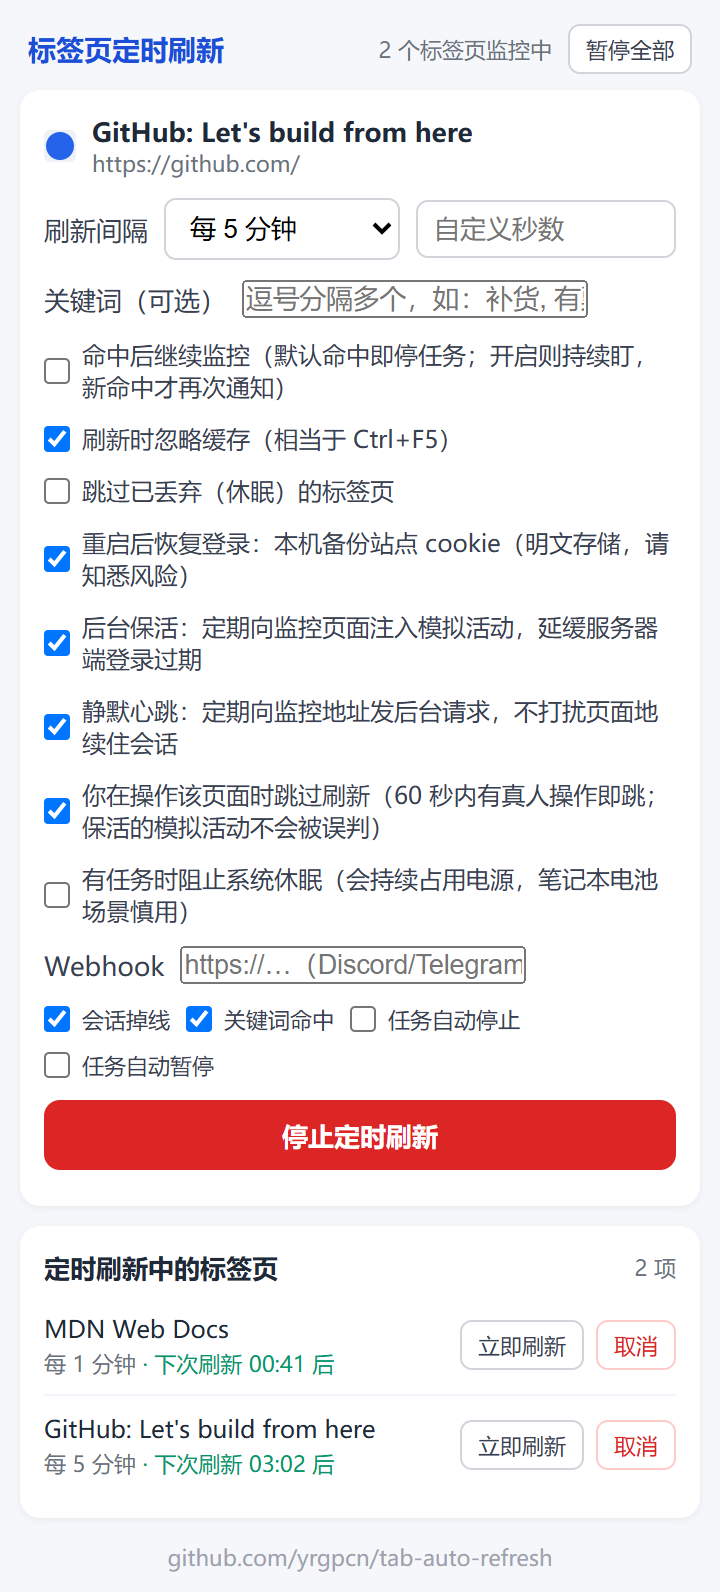
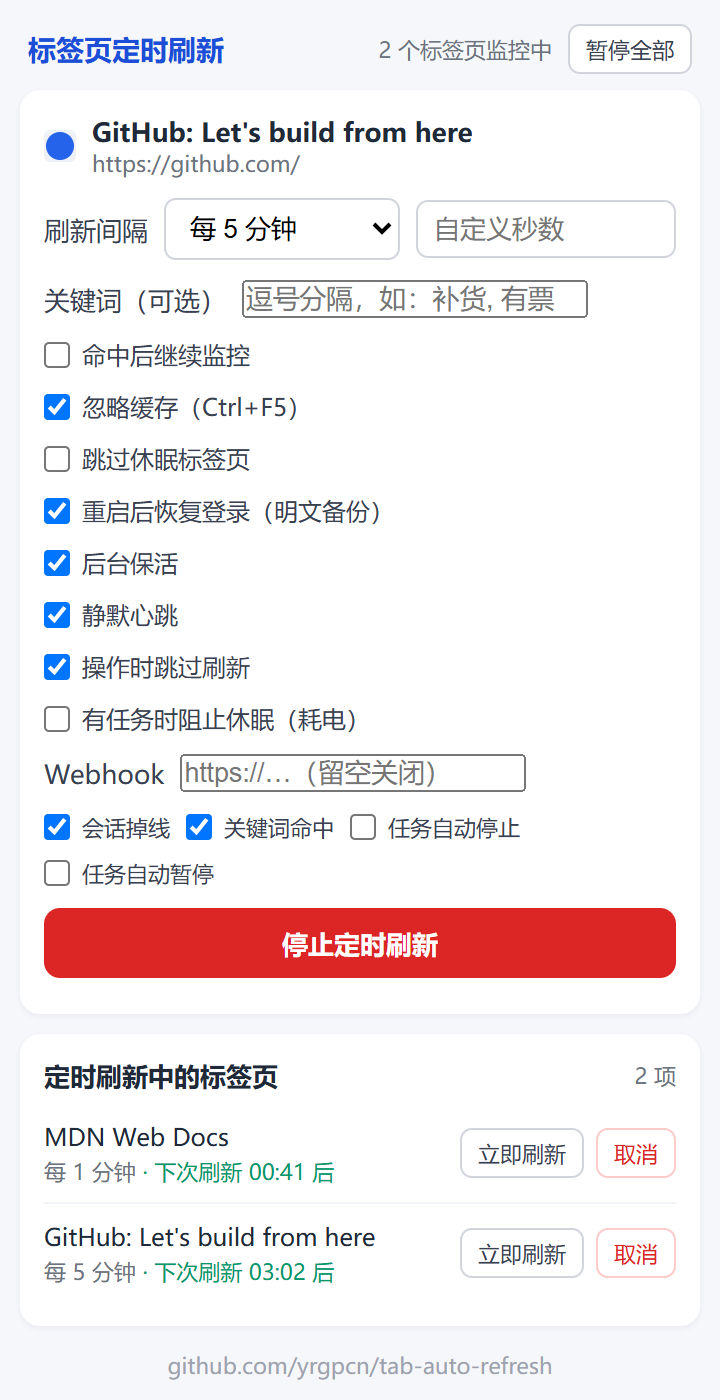
refactor: trim popup copy and move switch explanations into tooltips
The settings card had grown into a wall of text: eight switches each carried a
full explanatory sentence, wrapping to two or three lines inside the 360px
popup. Each switch now shows a short label, with the explanation moved into a
hover tooltip.

- add a data-i18n-title rendering pass in applyI18n, mirroring the existing
  data-i18n-placeholder pass
- shorten the eight switch labels plus the keyword and webhook placeholders
- add eight *Hint keys carrying the detail; zh and en stay in parity (79 each)
- keep the wording that is a disclosure visible inline: the plaintext cookie
  backup note and the power cost of preventing sleep
- fix en keepAliveLabel, which read "Keep awake" and was easily confused with
  the separate keep-awake switch

Visible Chinese copy drops from 397 to 207 characters, the popup shrinks from
720x1592 to 720x1400, and no label wraps any more.

Also fix the local i18n checker: it scanned only getMessage("..."), so the 41
keys popup.js resolves through its msg() wrapper were all reported as
unreferenced. It now scans both and the unreferenced list drops to 13, all
genuinely dynamic (preset* concatenation, notif*, manifest refs).

diff --git a/tab-auto-refresh/popup.html b/tab-auto-refresh/popup.html
@@ -32,7 +32,7 @@
       <span class="label" data-i18n="keywordLabel"></span>
       <input id="keywordInput" type="text" data-i18n-placeholder="keywordPlaceholder">
     </div>
-    <label class="row-check">
+    <label class="row-check" data-i18n-title="keepWatchingHint">
       <input id="keepWatchingCheck" type="checkbox">
       <span data-i18n="keepWatchingLabel"></span>
     </label>
@@ -40,33 +40,33 @@
       <input id="bypassCheck" type="checkbox">
       <span data-i18n="bypassLabel"></span>
     </label>
-    <label class="row-check">
+    <label class="row-check" data-i18n-title="skipDiscardedHint">
       <input id="skipDiscardedCheck" type="checkbox">
       <span data-i18n="skipDiscardedLabel"></span>
     </label>
-    <label class="row-check">
+    <label class="row-check" data-i18n-title="cookieBackupHint">
       <input id="cookieBackupCheck" type="checkbox">
       <span data-i18n="cookieBackupLabel"></span>
     </label>
-    <label class="row-check">
+    <label class="row-check" data-i18n-title="keepAliveHint">
       <input id="keepAliveCheck" type="checkbox">
       <span data-i18n="keepAliveLabel"></span>
     </label>
-    <label class="row-check">
+    <label class="row-check" data-i18n-title="httpHeartbeatHint">
       <input id="httpHeartbeatCheck" type="checkbox">
       <span data-i18n="httpHeartbeatLabel"></span>
     </label>
-    <label class="row-check">
+    <label class="row-check" data-i18n-title="skipOnActivityHint">
       <input id="skipOnActivityCheck" type="checkbox">
       <span data-i18n="skipOnActivityLabel"></span>
     </label>
-    <label class="row-check">
+    <label class="row-check" data-i18n-title="keepAwakeHint">
       <input id="keepAwakeCheck" type="checkbox">
       <span data-i18n="keepAwakeLabel"></span>
     </label>
     <div class="row">
       <span class="label" data-i18n="webhookLabel"></span>
-      <input id="webhookUrlInput" type="text" data-i18n-placeholder="webhookPlaceholder">
+      <input id="webhookUrlInput" type="text" data-i18n-placeholder="webhookPlaceholder" data-i18n-title="webhookHint">
     </div>
     <div class="row webhook-events">
       <label class="row-check compact">

diff --git a/tab-auto-refresh/popup.js b/tab-auto-refresh/popup.js
@@ -58,6 +58,9 @@ function applyI18n() {
   for (const el of document.querySelectorAll("[data-i18n-placeholder]")) {
     el.placeholder = msg(el.dataset.i18nPlaceholder);
   }
+  for (const el of document.querySelectorAll("[data-i18n-title]")) {
+    el.title = msg(el.dataset.i18nTitle);
+  }
 }
 
 async function syncAlarms() {

diff --git a/AGENTS.md b/AGENTS.md
@@ -43,7 +43,7 @@
 - alarm 命名：刷新 `refresh-<tabId>`、静默心跳 `hb-<tabId>`；`PREFIX` / `HB_PREFIX` / `PRESETS` 定义在 `shared/config.js`，后台与弹窗共用（service worker 是 ES module）。刷新采用"一次性 when（jitteredDelayMs 在原周期上 ±15% 抖动、下限 30 秒；**30 秒档因贴地板改为只正向抖动**，否则约一半样本被抬回 30000、去相关失效）+ periodInMinutes 兜底"的双保险调度，每次 onAlarm 触发后重新 arm；心跳 alarm 带随机初始相位（1 秒~一个周期，下限防首拍立即触发）避免多任务同拍；`chrome.idle` 回到 active 时把过期刷新 alarm 重走完整周期、过期心跳打散 0~60 秒重建（睡眠漂移自愈）
 - 纯逻辑（间隔兜底、格式化、域名/URL 匹配、掉线决策 `decideBackupWrite` + 落盘映射 `applyBackupAction`、登录页探测 `looksLikeLoginPage`、关键词命中 `keywordHit`、抖动 `jitteredDelayMs`、关键词解析/读取 `parseKeywords`/`getTaskKeywords`、在场与新增命中划分 `pickHits`、webhook 地址校验 `normalizeWebhookUrl`、错误状态判定 `isErrorStatus`）在 `shared/logic.js`，被 `tests/tab-auto-refresh/logic.test.mjs` 覆盖。**关键**：`backupCookies` 写盘与测试都走同一个 `applyBackupAction`（决策+落盘二合一，返回 `{write, notify}`，write=null 即冻结且节流不写）——04 复审 §4.4 指出"测试复刻一遍映射、后台另写一遍"是契约两半漂移的温床（当初死代码 bug 即此类），共用纯函数后测试与实现不可能悄悄分家
 - 右键菜单 contexts 为 `["tab", "page"]`；快捷键 `toggle-refresh` 默认 `Alt+Shift+R`
-- 国际化：`_locales/zh_CN` 与 `_locales/en` 全量文案，popup HTML 通过 `data-i18n` / `data-i18n-placeholder` 注入；manifest 的 `name` / `description` / `action.default_title` / 命令 `description` 均引用 i18n 键
+- 国际化：`_locales/zh_CN` 与 `_locales/en` 全量文案，popup HTML 通过 `data-i18n` / `data-i18n-placeholder` / `data-i18n-title` 注入（`title` 这条通道专门用来把开关的长解释挪出可见版面、只留悬停可见，2026-09-14 弹窗精简时引入）；manifest 的 `name` / `description` / `action.default_title` / 命令 `description` 均引用 i18n 键
 - 后台对 `tasks` 的读改写必须经过 `withTaskLock` 串行队列，防止弹窗 / 右键菜单 / 定时器并发覆盖
 - 弹窗每秒重新拉取 alarm 列表再重绘倒计时：alarm 周期触发不会触发 `storage.onChanged`，只重绘文本会让倒计时停在 00:00
 - 后台保存设置时合并既有 `settings`，避免只更新复选框时丢失 `lastIntervalSec`
@@ -99,7 +99,8 @@
   - `verify-sw-restart-state.mjs` — 跨 SW 实例的运行时状态（二次 `import` 模拟 SW 重启 + 共享 storage 桩）；配套 `对照-修复前_内存计数/` 冻结修复前源码做红→绿对照，退出码可直接判定
   - `verify-prune-order.mjs` — `prune` 重挂接/清理顺序（05 §2"把刚 arm 的 alarm 反手清成僵尸"的回归场景）；配套 `对照-修复前(73a8be6)-prune顺序.mjs`
   - `verify-streak.mjs` — 掉线探测的采样序列
-  - `_check_i18n.mjs` — 语言包完整性（zh/en 键位对齐、`data-i18n*` 与 `getMessage` 引用无悬空、manifest `__MSG__` 可达）
+  - `_check_i18n.mjs` — 语言包完整性（zh/en 键位对齐、`data-i18n*`（含 `-title`）与 `getMessage`/`msg` 引用无悬空、manifest `__MSG__` 可达）
+  - `verify-popup-titles.mjs` — 弹窗悬停文案是否真的渲染（`data-i18n-title` 通道；与语言包逐字比对 + 空跑守卫）。堵的盲区：i18n 检查器只验"键存在"，截图只覆盖 `applyI18n` 前四步，`title` 循环被删掉时两者都照常通过、提示却静默变空。需本机 Chrome + playwright
   - `_gen_prune_harness.mjs` / `_extract_text.mjs` — 取源工具：顺序类缺陷用"从仓库源码原样切片"而非手写复刻；抓网页一律 `curl -sL`（不跟 301 只会拿到跳转壳）
 - **方法学红线（踩过坑）**：若验证脚本连"修复前源码"也判过，先怀疑**桩件监听器数组跨实例累积**——chrome 桩的 `addListener` 共用同一数组、新实例的监听器在末尾，必须取 `listeners.x.at(-1)`；取 `[0]` 读到的是上个实例的处理器，会让基线假绿
 - **待决（08 §3.8 路线 B）**：`verify-prune-order.mjs` / `_gen_prune_harness.mjs` 实为测试资产而非审核笔记，可考虑挪进 `tests/` 并挂 CI，使上述引用真正成立；未获批前维持本地
@@ -108,7 +109,7 @@
 
 1. `node scripts/validate.mjs`：JSON/manifest/语言包/JS 语法一键校验（等价旧手工步骤 1-2）。注意它会遍历**整个仓库根**做 JS 语法检查，故 `_code-review/` 里的脚本语法错同样会让本地校验 exit=1
 2. `node --test "tests/**/*.test.mjs"`：纯逻辑单元测试（引号必需，避免 shell 提前展开。glob 形式在 Node 24 与较新的 Node 22（本机 22.22.2 实测可用）均可；Node 22 早期如 22.14 不支持、报找不到文件，该环境下改用显式路径 `node --test tests/tab-auto-refresh/logic.test.mjs`）
-3. 常驻回归（改动心跳 / 掉线探测 / 自动暂停 / 保活 / `prune` 时必跑，脚本在本地归档目录）：`node _code-review/verify-sw-restart-state.mjs`、`node _code-review/verify-prune-order.mjs`、`node _code-review/verify-streak.mjs`；语言包改动另跑 `node _code-review/_check_i18n.mjs`
+3. 常驻回归（改动心跳 / 掉线探测 / 自动暂停 / 保活 / `prune` 时必跑，脚本在本地归档目录）：`node _code-review/verify-sw-restart-state.mjs`、`node _code-review/verify-prune-order.mjs`、`node _code-review/verify-streak.mjs`；语言包或弹窗文案改动另跑 `node _code-review/_check_i18n.mjs` 与 `_code-review/verify-popup-titles.mjs`（后者需 playwright 的 `NODE_PATH`）
 4. UI 改动后可用 `scripts/screenshot-popup.mjs` 重新生成 `docs/tab-auto-refresh/popup.png`
 5. `chrome://extensions` 开发者模式加载插件文件夹，验证：设置/停止、倒计时归零后继续、右键菜单（页面+标签页）、立即刷新、角标计数、暂停/恢复全部、快捷键记住上次间隔、自动清理通知；1.7.0 新增：点「开始」**不弹任何授权框**一次成任务、30 秒任务下 12~20 秒能看到注入的心跳事件（DevTools 里断点或加 listener 观察）、同站另开无关标签页无心跳、同页停任务再启心跳恢复、关键词命中弹通知并停任务、模拟掉线（清服务端会话）后角标变红并通知、睡眠唤醒后过期 alarm 被重建
 

diff --git a/CHANGELOG.md b/CHANGELOG.md
@@ -20,6 +20,9 @@
 - 防系统休眠（默认关闭）：`chrome.power.requestKeepAwake("system")`，有任务且开关开启期间持锁，任务清空即释放；README"机器不休眠"前提转由扩展职责承担
 - manifest 新增 `power` 权限；注入通道按职责解耦（心跳/活动监听各有开关，任一开启即注入、配置热推送），关闭保活不再影响其他注入功能
 
+### Changed
+- 弹窗文案精简：8 个开关的可见标签从「名称 + 整句解释」压成短标签（例：「后台保活：定期向监控页面注入模拟活动，延缓服务器端登录过期」→「后台保活」，「你在操作该页面时跳过刷新（60 秒内有真人操作即跳…）」→「操作时跳过刷新」），完整解释改由悬停提示承载（新增 `data-i18n-title` 渲染通道与 8 条 `*Hint` 键，中英文同步）。界面可见文案字数约减半，设置卡片不再折行堆叠，信息不丢失
+
 ### Fixed
 - 掉线状态通道的决策与落盘映射合并为同一纯函数 `applyBackupAction`，后台写盘、单元测试与回归脚本三方共用，消除"测试复刻映射与后台各写一半"的契约漂移隐患
 - 静默心跳去同拍：建 alarm 带随机初始相位、睡眠唤醒重建打散 0~60 秒；请求加 `Range: bytes=0-1023` 截断，不再拉取整页响应体
